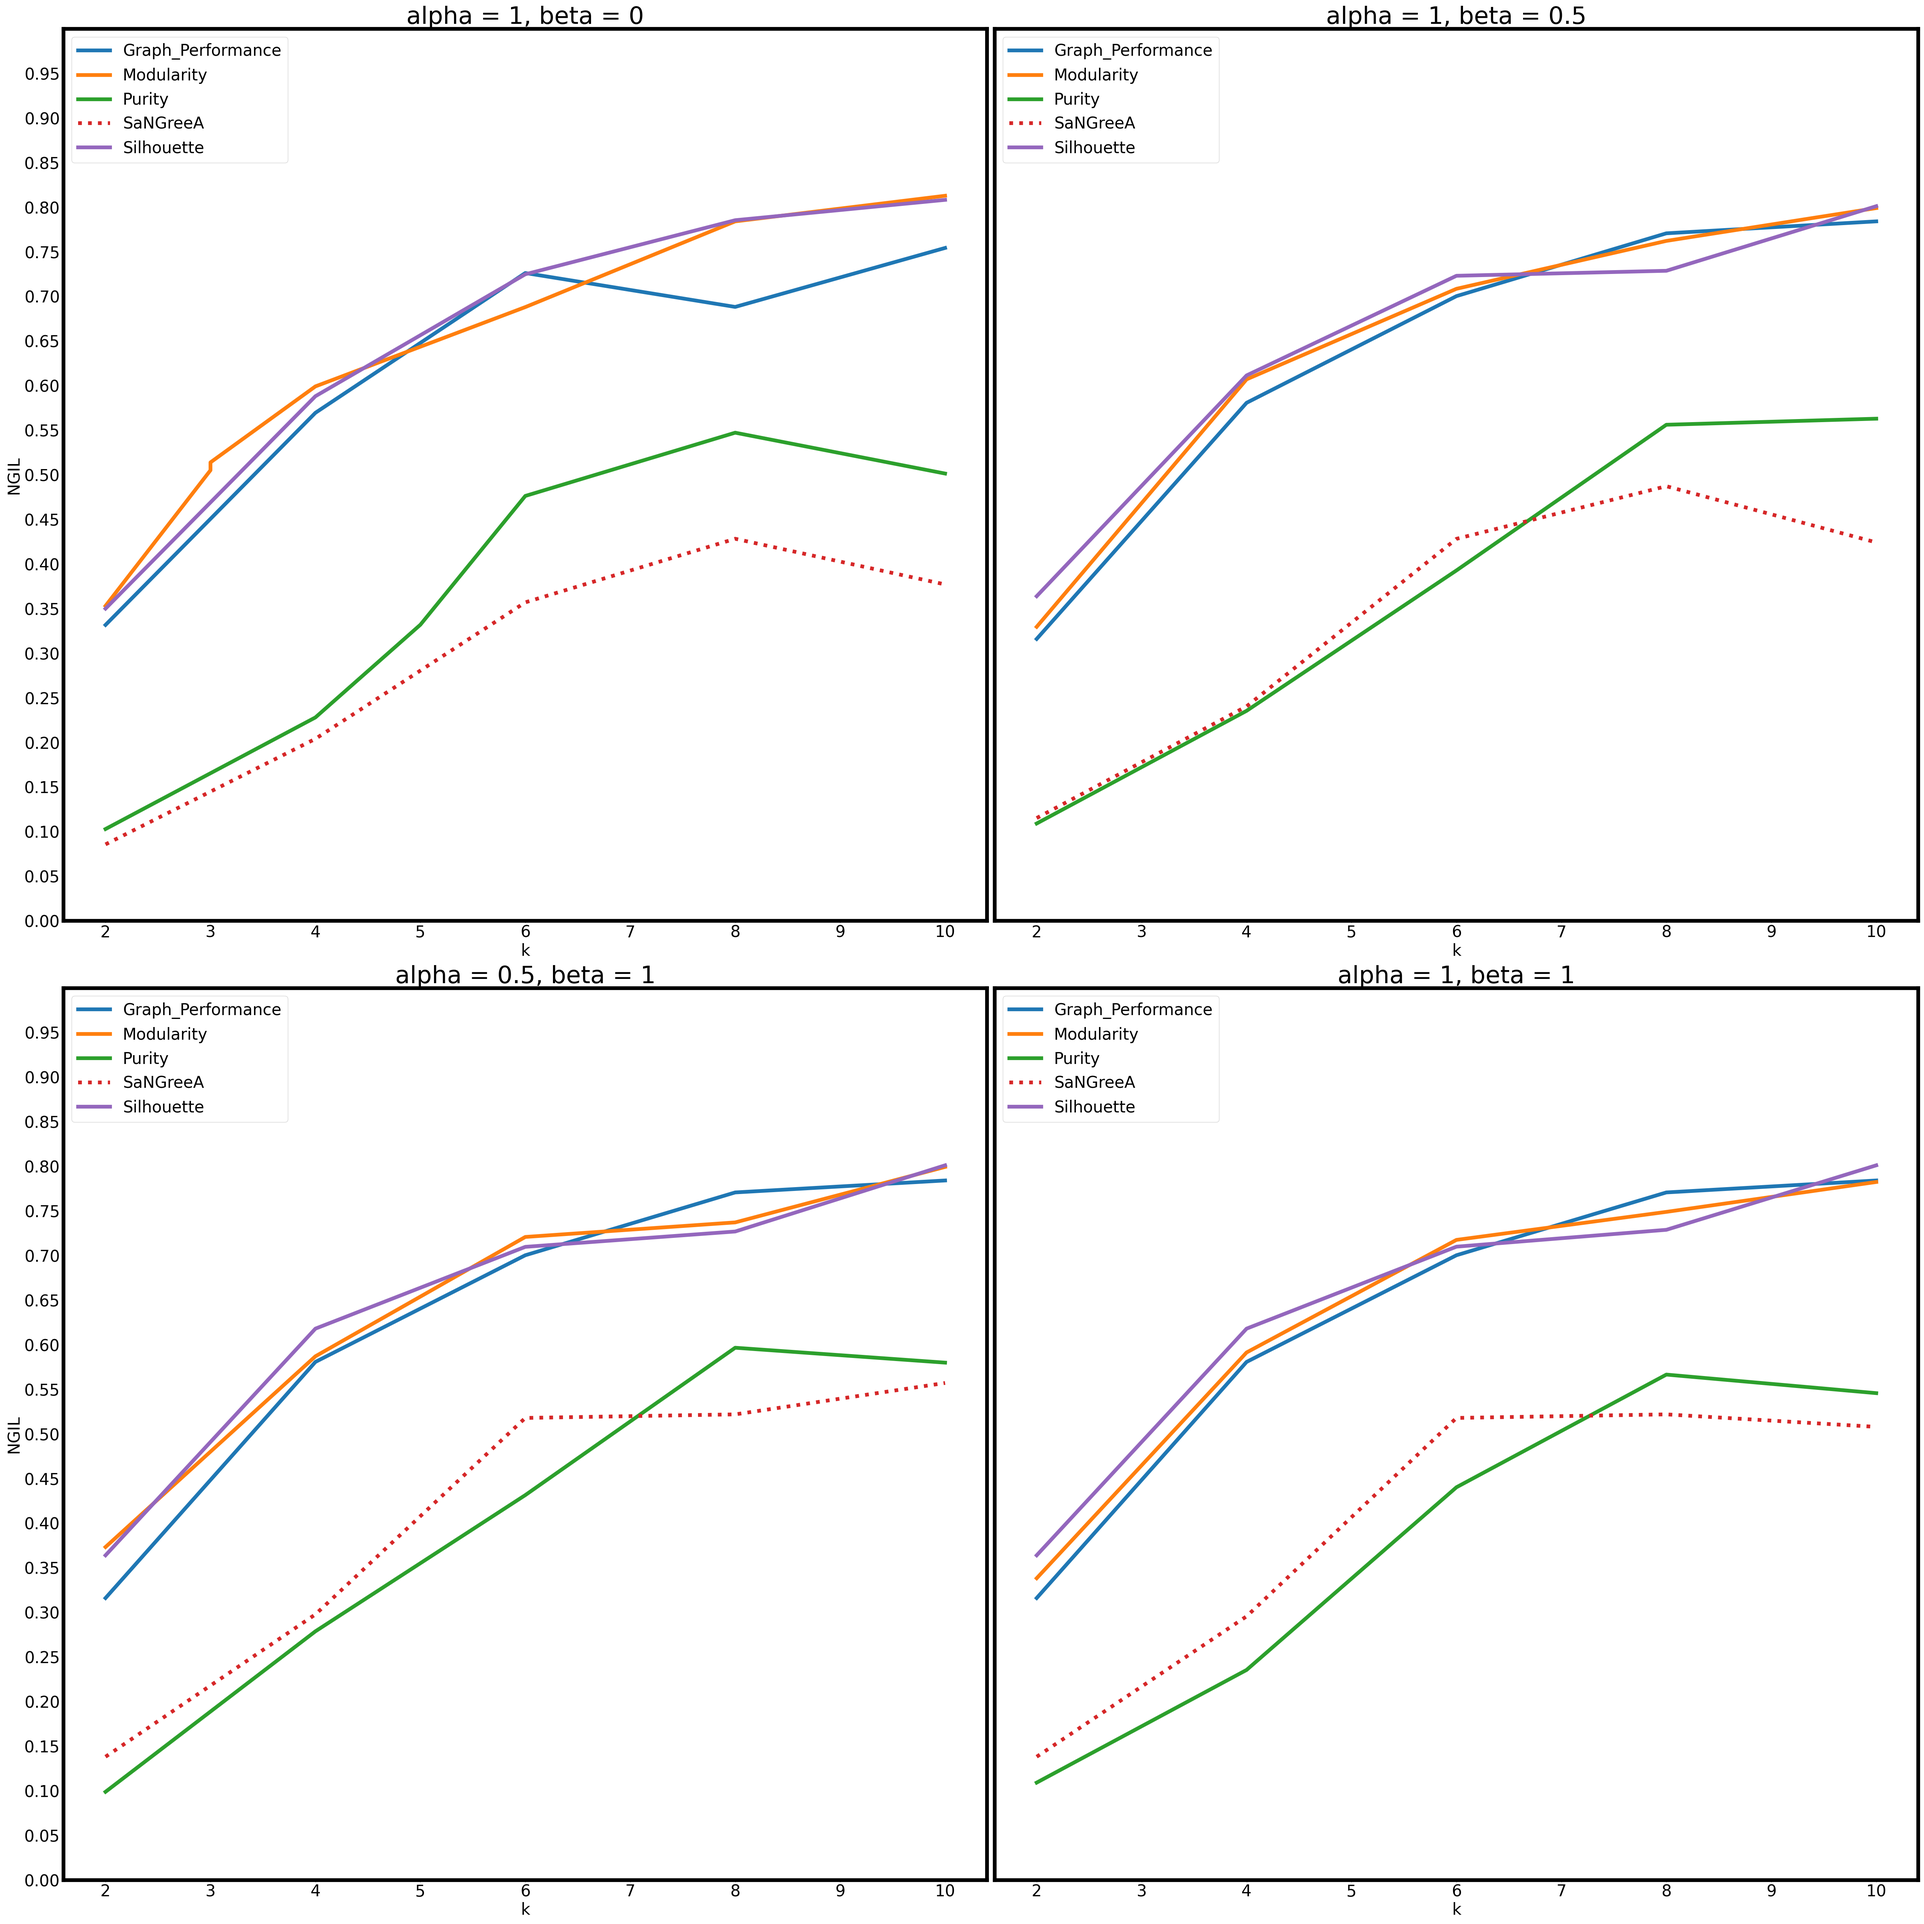
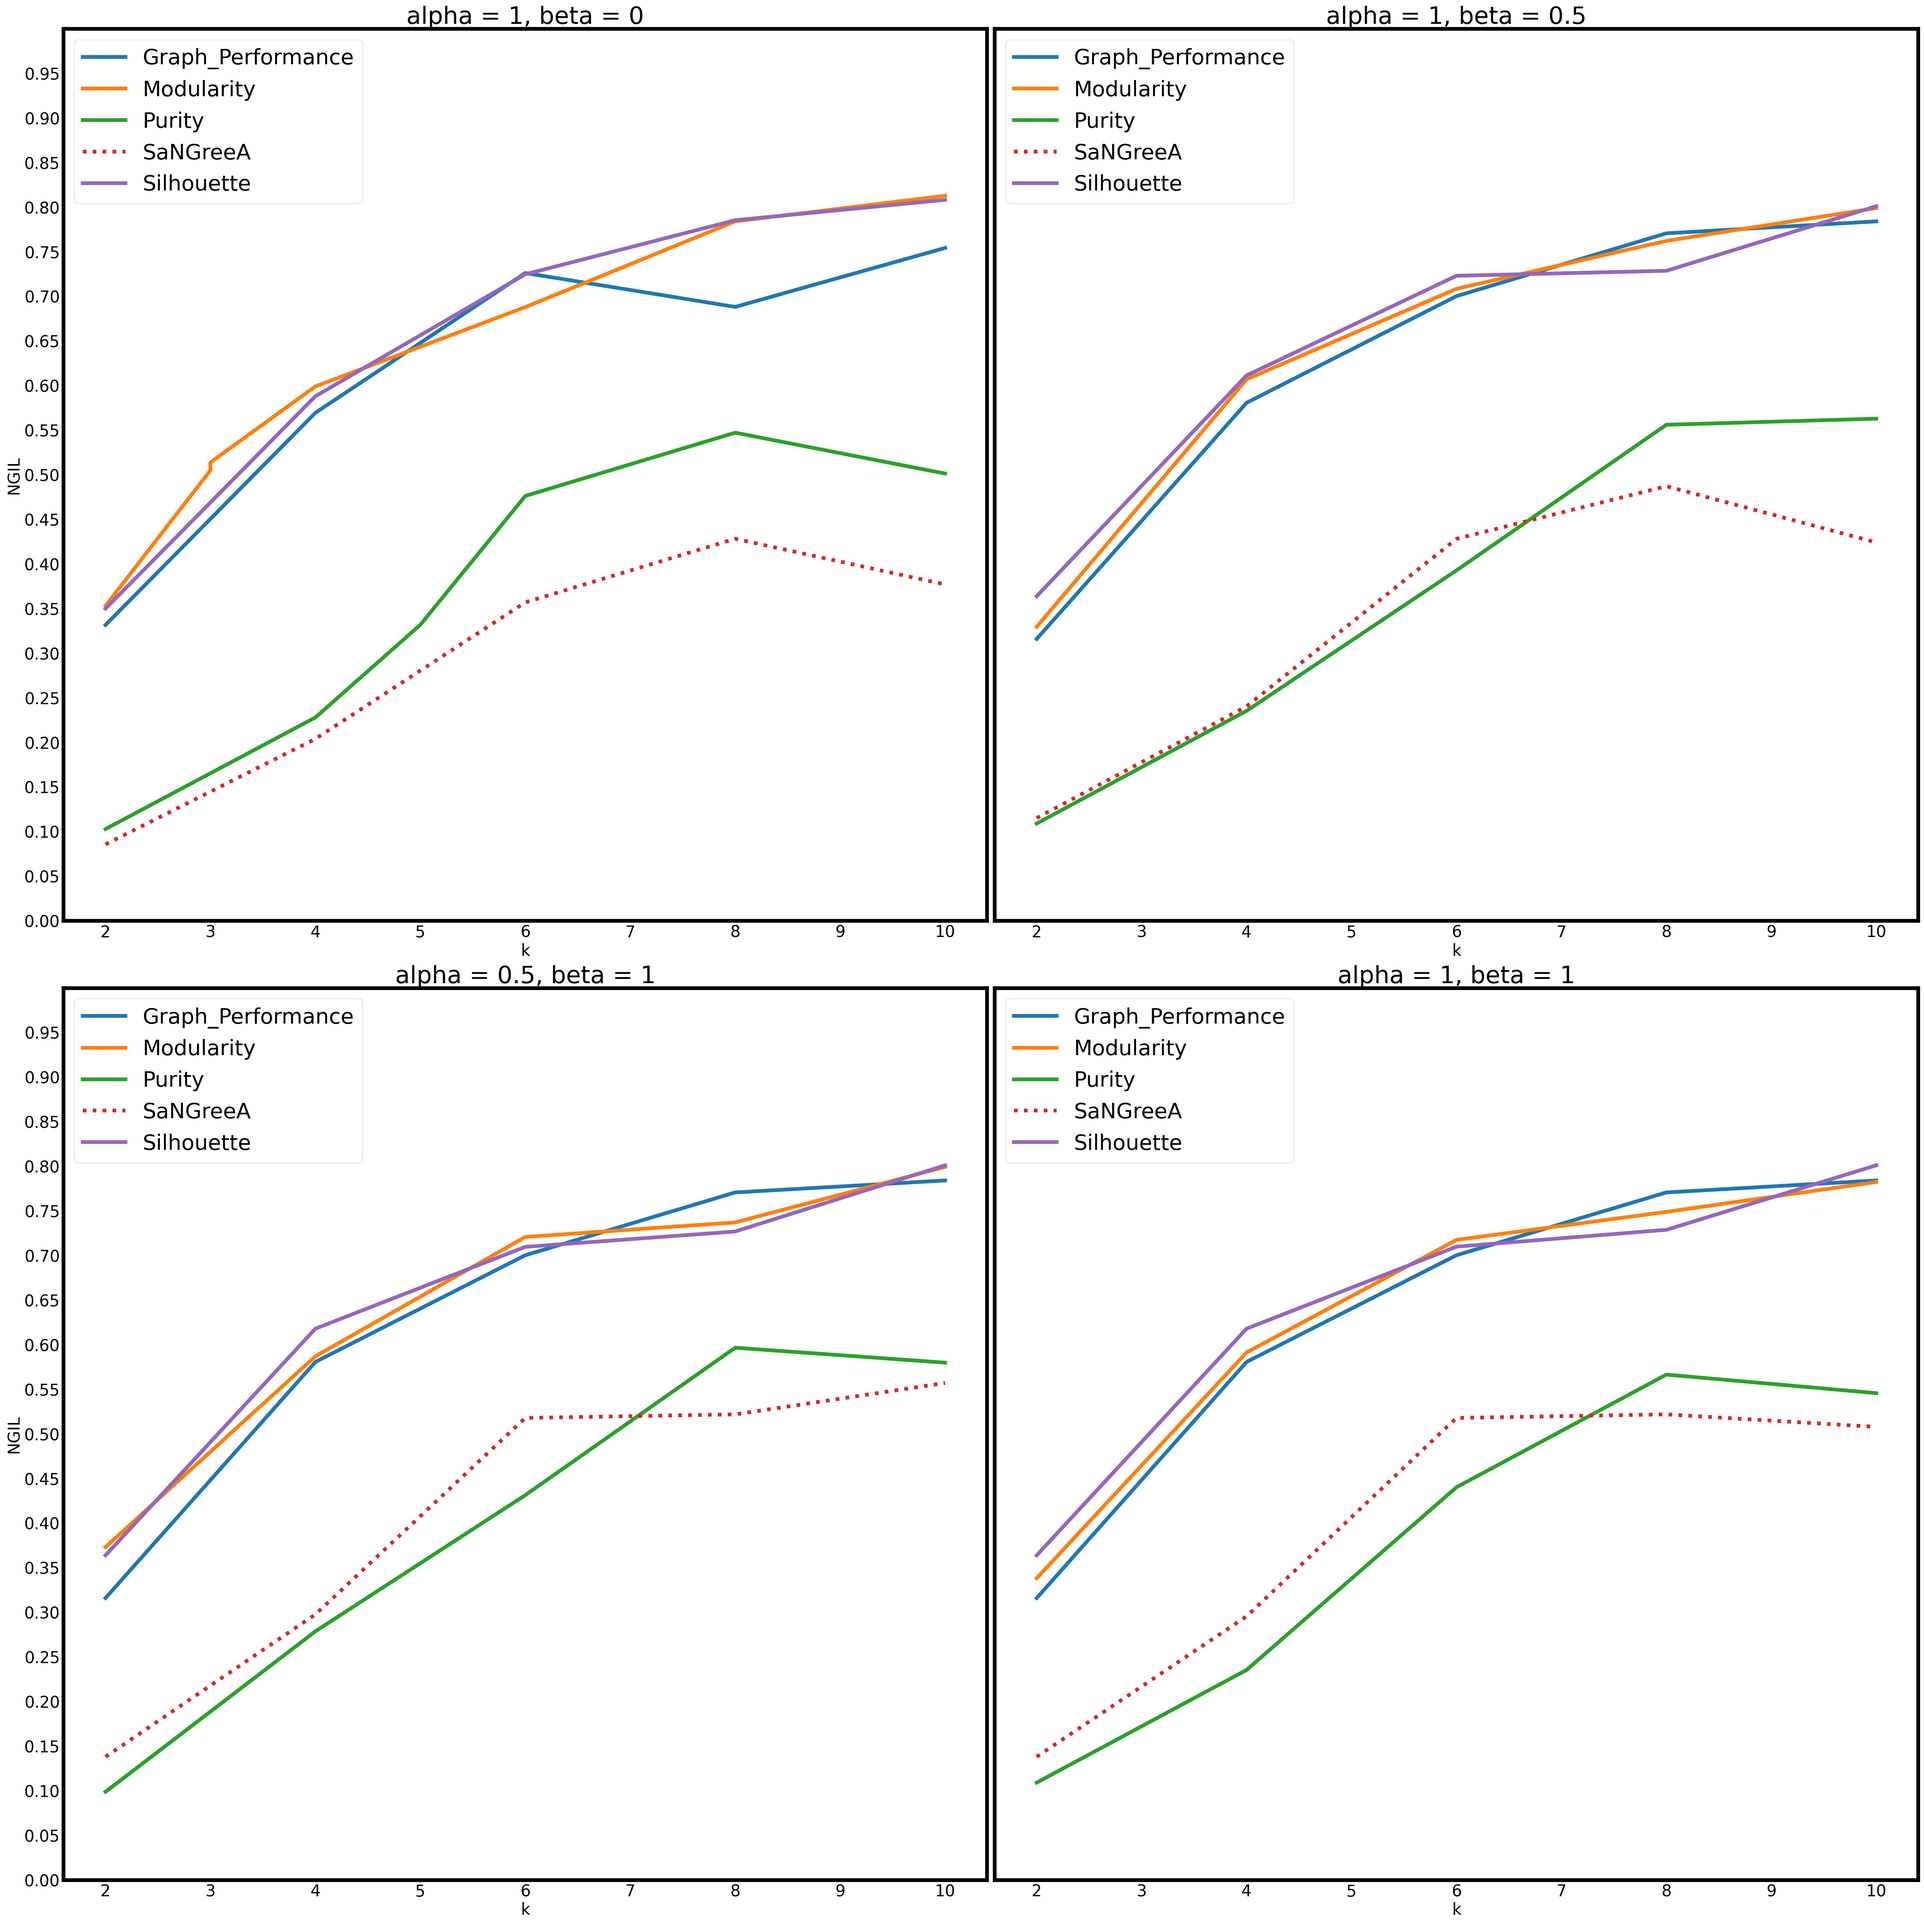
Update legend size

diff --git a/engines/visualizationEngine.py b/engines/visualizationEngine.py
@@ -98,7 +98,7 @@ class VisualizationEngine:
                     row += 1
 
         for axItem in ax.ravel():
-            axItem.legend(loc=2, prop={'size': self.FONTSIZE})
+            axItem.legend(loc=2, prop={'size': self.FONTSIZE + 10})
             axItem.set(xlabel='k', ylabel=y_label)
             axItem.spines["left"].set_linewidth(self.LINE_WIDTH)
             axItem.spines["bottom"].set_linewidth(self.LINE_WIDTH)
@@ -201,7 +201,7 @@ class VisualizationEngine:
                 index += 1
 
         for axItem in ax.ravel():
-            axItem.legend(loc=2, prop={'size': self.FONTSIZE})
+            axItem.legend(loc=2, prop={'size': self.FONTSIZE + 10})
             axItem.set(xlabel='Dataset Size', ylabel=y_label)
             axItem.xaxis.set_ticks([100, 300, 500, 1000])
             axItem.spines["left"].set_linewidth(self.LINE_WIDTH)

diff --git a/main.py b/main.py
@@ -98,10 +98,10 @@ def createMinimumTable(ngil: bool):
 
 
 def visualize():
-    VisualizationEngine(Datasets.BANK_CLIENTS, 100).plotPerformance()
-    VisualizationEngine(Datasets.BANK_CLIENTS, 100).plotNGIL()
-    VisualizationEngine(Datasets.BANK_CLIENTS, 100).plotNSIL()
-    VisualizationEngine(Datasets.BANK_CLIENTS, 100).plotCGIL()
+    VisualizationEngine(Datasets.ADULTS, 100).plotPerformance()
+    VisualizationEngine(Datasets.ADULTS, 100).plotNGIL()
+    VisualizationEngine(Datasets.ADULTS, 100).plotNSIL()
+    VisualizationEngine(Datasets.ADULTS, 100).plotCGIL()
 
 
 if __name__ == '__main__':
